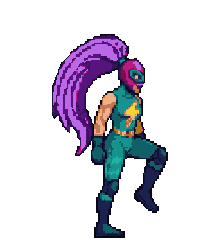
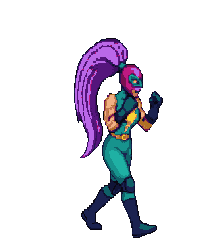
Referencias fijas de animacion y walk en guardia
- Se guardan en la guia las hojas de Chun-Li (SF2) y Blue Mary (KOF), y se
  recorta ref/walk_ref.png: la fila Walking de SF2 al lado de la stance
  aprobada. Es la referencia que se mira antes de animar.
- GUIA: seccion 'Como camina un personaje' con lo que hay que copiar: guardia
  alta, pasos cortos, pies bajos, cabeza fija y vista lateral.
- Walk rehecho con esa referencia: 4 frames en guardia, pasos cortos, paleta a
  menos de 2 puntos de la stance. Queda pendiente la alternancia de pierna y la
  bota trasera, anotado en style.json.

Changed region(s): [[0.24, 0.1167, 0.84, 0.9917]]

diff --git a/preview/nueva.html b/preview/nueva.html
@@ -117,7 +117,7 @@
 (() => {
   // El archivo no se toca y el escenario no lo escala: 200 nativos, 1:1.
   // ?v= para que el navegador no sirva el PNG viejo de esta misma ruta.
-  window.STAGE_FIGHTER = '../voltia/nueva/stance/00.png?v=22';
+  window.STAGE_FIGHTER = '../voltia/nueva/stance/00.png?v=23';
   // Suelo en el centro del rombo dibujado (spec.floorY es 408, el borde trasero).
   window.STAGE_FLOOR_Y = 426;
   window.STAGE_FIGHTER_SCALE = 1;
@@ -202,7 +202,7 @@
     note.textContent = anim.note || '';
     for (const f of anim.frames) {
       const im = new Image();
-      im.src = '../voltia/' + anim.dir + '/' + f + '?v=22';
+      im.src = '../voltia/' + anim.dir + '/' + f + '?v=23';
       await im.decode();
       imgs.push(im);
     }
@@ -210,7 +210,7 @@
     draw();
   }
   try {
-    const guide = await (await fetch('../voltia/guide/style.json?v=22',
+    const guide = await (await fetch('../voltia/guide/style.json?v=23',
       { cache: 'no-store' })).json();
     window.__GUIDE = guide;
     const entries = Object.entries(guide.anims || {});

diff --git a/voltia/guide/GUIA.md b/voltia/guide/GUIA.md
@@ -235,6 +235,34 @@ solo se usa si el corte limpio es imposible.
 4. Nunca se pide «la otra mitad», ni espejar, ni cambiar tonos: eso ya se probó
    y sale una figura distinta que además invierte la paleta.
 
+## Cómo camina un personaje (referencia fija)
+
+La referencia de animación está en el repo y no se toca:
+
+- `ref/chunli_sf2_sheet.png` — hoja de Chun-Li de SF2 (dibujo y animación).
+- `ref/blue_mary_sheet.png` — hoja de Blue Mary de KOF (misma lectura, otro juego).
+- `ref/walk_ref.png` — la fila **Walking** de SF2 recortada, al lado de la stance
+  aprobada de Voltia. Esta es la que se mira antes de generar un walk.
+
+Lo que dicen esas tres filas, y lo que hay que copiar (sin plagiar el dibujo):
+
+1. **Se anda en guardia.** Los puños siguen arriba, a la altura de la barbilla,
+   los codos recogidos. Nunca los brazos colgando: eso convierte el walk en un
+   paseo de pasarela, que es justo el desastre de la primera prueba.
+2. **Pasos cortos.** Los pies se separan poco, la zancada es pequeña y rápida;
+   el talón de atrás se levanta y el de delante apoya plano.
+3. **Ningún pie se levanta más que su propia bota.** Nada de rodilla al pecho.
+4. **La cabeza no sube ni baja.** El torso va erguido y la línea del pelo se
+   mantiene: si la cabeza baila, parece que salta, no que anda.
+5. **Vista de lado, piernas cruzadas.** La pierna cercana tapa a la lejana y del
+   pie de atrás solo asoma la bota. Es la vista lateral la que disimula el
+   cambio de pierna y la que aguanta un ciclo corto.
+6. **Cuatro poses por ciclo** (las cuatro de la fila de SF2): contacto, paso,
+   contacto contrario, paso. La coleta va un pelo por detrás del cuerpo.
+
+Con esto, la alternancia ya no se pide como un truco de tonos: se pide como una
+pose más, con la pierna contraria delante y el mismo puño arriba.
+
 ## Recorte y reducción
 
 El verde se mide en el borde de la imagen. Esta tirada dio `(28, 221, 8)`.
